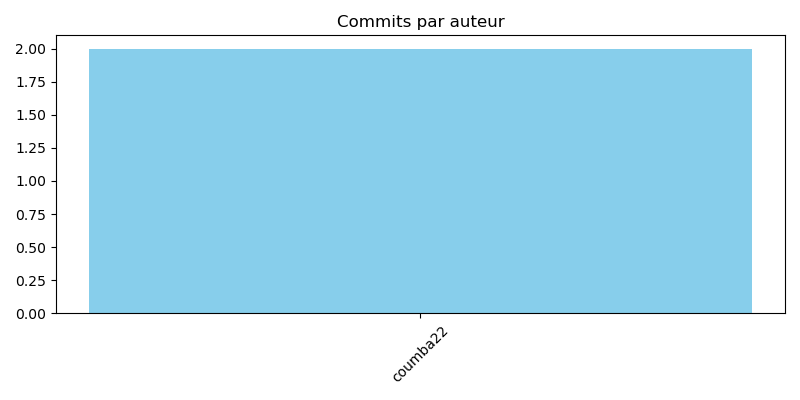
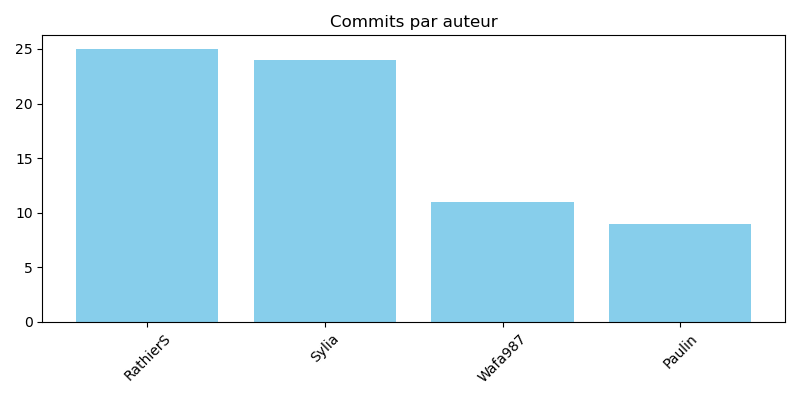
fix des graphiques de stats

diff --git a/templates/stats.html b/templates/stats.html
@@ -74,7 +74,7 @@
 
         function filtrerGroupe() {
             const groupe = document.getElementById("filtre-groupe").value;
-            fetch("http://127.0.0.1:5000/api/indicateurs/groupes")
+            fetch("http://127.0.0.1:4000/api/indicateurs/groupes")
             .then(res => {
                 if (!res.ok) throw new Error("Réponse serveur non valide");
                 return res.json();

diff --git a/app.py b/app.py
@@ -10,11 +10,12 @@ from flask import Flask, render_template, request, redirect, url_for
 import shutil
 import subprocess
 from audit_utils import nettoyer_nom_repo
+import numpy as np
 
 GITSTATS_PATH = r"C:\Users\NCD\AppData\Local\Programs\Python\Python38-32\Scripts\gitstats.exe"
 
 app = Flask(__name__)
-API_URL = "http://127.0.0.1:5000/api/stats"
+API_URL = "http://127.0.0.1:4000/api/stats"
 
 
 
@@ -172,7 +173,7 @@ def indicateurs_graph():
     import matplotlib.pyplot as plt
     import io
 
-    response = requests.get("http://127.0.0.1:5000/api/indicateurs")
+    response = requests.get("http://127.0.0.1:4000/api/indicateurs")
     data = response.json()
 
     plt.figure(figsize=(10, 5))
@@ -206,26 +207,34 @@ def indicateurs_graph():
 
 @app.route('/indicateurs/grouped-graph.png')
 def grouped_scores_graph():
-    response = requests.get("http://127.0.0.1:5000/api/indicateurs/groupes")
+    response = requests.get("http://127.0.0.1:4000/api/indicateurs/groupes")
     data = response.json()
 
-    tds = list(data.keys())
+    tds = sorted(data.keys())  # Par exemple ["1", "3"]
     groupes = set()
-    for td in data:
+    for td in tds:
         groupes.update(data[td].keys())
     groupes = sorted(groupes)
 
-    # Préparer les données par groupe
     width = 0.15
-    x = range(len(tds))
+    x = np.arange(len(tds))
+
     plt.figure(figsize=(10, 5))
 
     for i, groupe in enumerate(groupes):
-        scores = [data[td].get(groupe, 0) for td in tds]
-        offset = [(pos + (i - len(groupes)/2) * width) for pos in x]
+        scores = []
+        for td in tds:
+            val = data[td].get(groupe, 0)
+            try:
+                score = float(val)
+            except (TypeError, ValueError):
+                score = 0
+            scores.append(score)
+
+        offset = x + (i - len(groupes)/2) * width
         plt.bar(offset, scores, width=width, label=groupe)
 
-    plt.xticks(range(len(tds)), tds)
+    plt.xticks(x, tds)
     plt.xlabel("TD")
     plt.ylabel("Score moyen")
     plt.title("Scores par groupe et par TD")
@@ -237,6 +246,7 @@ def grouped_scores_graph():
     buf.seek(0)
     plt.close()
     return Response(buf.getvalue(), mimetype="image/png")
+
 
 @app.route("/dashboard", methods=["GET", "POST"])
 def dashboard():
